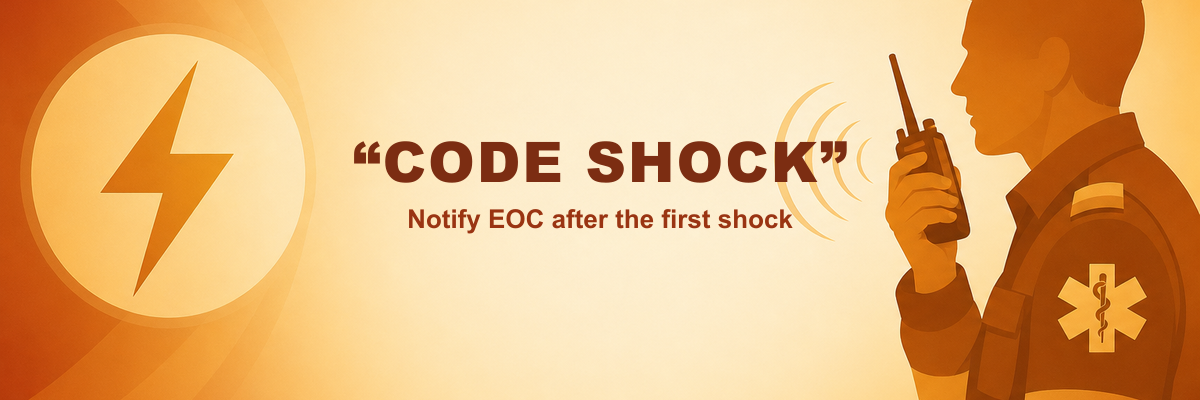
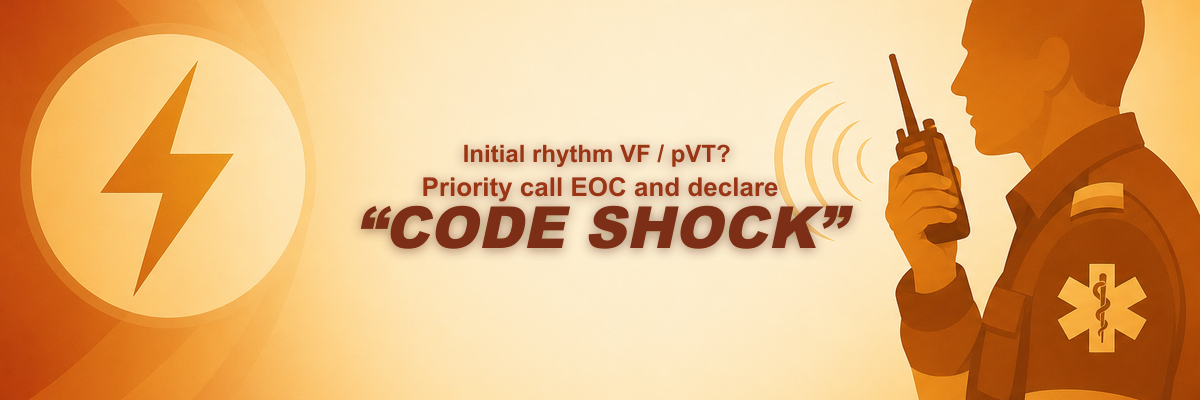
CODE SHOCK: require VF/pVT initial rhythm
Restrict the CODE SHOCK reminder to only appear when the initial rhythm is VF/pVT. Add an initialRhythm parameter to shouldShowCodeShockReminder and update callers in App.tsx and standalone HTML. Bump app version to 1.2.2 and update changelogs, blog/post copy and generated preview pages. Update image composition script to produce a revised CODE SHOCK banner and refresh related image assets.

Changed region(s): [[0.2775, 0.33, 0.7092, 0.66]]

diff --git a/dist-pages-test/blog/posts/2026-05-31-wmas-code-shock-reminder.html b/dist-pages-test/blog/posts/2026-05-31-wmas-code-shock-reminder.html
@@ -158,16 +158,16 @@
       <article>
         <h1>CODE SHOCK reminder for WMAS crews</h1>
         <p class="post-meta"><span class="badge badge-news">Update</span>31 May 2026</p>
-        <div class="prose"><p>The <strong>WMAS build</strong> of Resusci-Time includes a <strong>CODE SHOCK</strong> reminder. It appears once a patient has received their <strong>first shock</strong> during active resuscitation, prompting the crew to <strong>inform EOC</strong> that a CODE SHOCK situation exists.</p>
-<p><img src="../images/code-shock-wmas.png" alt="CODE SHOCK reminder — notify EOC after the first shock"></p>
+        <div class="prose"><p>The <strong>WMAS build</strong> of Resusci-Time includes a <strong>CODE SHOCK</strong> reminder. It appears after the <strong>first logged shock</strong> when the <strong>initial rhythm was VF / pVT</strong>, prompting the crew to <strong>inform EOC</strong> that a CODE SHOCK situation exists.</p>
+<p><img src="../images/code-shock-wmas.png" alt="CODE SHOCK reminder — VF / pVT initial rhythm, priority call EOC"></p>
 <h2>Why it matters</h2>
 <p>Shockable cardiac arrest may benefit from <strong>early coordination with EOC</strong> and the <strong>possible deployment of specialist clinicians</strong> to the scene or to support remote clinical decision-making. Notifying EOC at the right time helps the wider system respond sooner, which can lead to <strong>better patient outcomes</strong>.</p>
 <p>The reminder is a <strong>prompt only</strong> — it does not replace local WMAS policy, crew judgement, or direct communication with EOC. It is there so the notification step is less likely to be missed under pressure.</p>
 <h2>What you will see in the app</h2>
 <ol>
-<li><p>Run a shockable rhythm case as usual and <strong>log each shock</strong> in Resusci-Time.</p>
+<li><p>Commence resuscitation with <strong>VF / pVT</strong> as the initial rhythm and <strong>log the first shock</strong> in Resusci-Time.</p>
 </li>
-<li><p>After the <strong>first shock</strong> is recorded, an <strong>amber alert panel</strong> appears below the timer with the message:</p>
+<li><p>After that shock is recorded, an <strong>amber alert panel</strong> appears below the timer with the message:</p>
 <p><strong>CODE SHOCK notified to EOC</strong></p>
 </li>
 <li><p>Once you have <strong>notified EOC</strong>, tap <strong>Acknowledge</strong>. The app adds a timestamped line to the <strong>event log</strong> (<code>CODE SHOCK notified to EOC</code>) so the record reflects that the step was completed.</p>
@@ -178,7 +178,7 @@
 <p>This reminder is <strong>enabled only in the WMAS custom build</strong> (live and preview URLs for West Midlands crews). The Standard build and other trust builds do not show CODE SHOCK.</p>
 <p>Open the WMAS app from your service link or bookmark — see your local Resusci-Time rollout contact if you need the URL.</p>
 <h2>Training tip</h2>
-<p>Run through a <strong>preview</strong> or training case and log the <strong>first shock</strong> to see the panel and acknowledgement flow before you rely on it on a real job. The preview build also lets you change protocol speed (1×–10×) from the header if you want a quicker walkthrough.</p>
+<p>Run through a <strong>preview</strong> or training case with <strong>VF / pVT</strong> as the initial rhythm and log the <strong>first shock</strong> to see the panel and acknowledgement flow before you rely on it on a real job. It does <strong>not</strong> appear if the first monitored rhythm was PEA or asystole, even if the patient is shocked later. The preview build also lets you change protocol speed (1×–10×) from the header if you want a quicker walkthrough.</p>
 <h2>Feedback</h2>
 <p>If the wording, timing, or placement of this reminder should change to fit WMAS practice better, pass feedback to your clinical lead or the project maintainer.</p>
 </div>

diff --git a/dist-pages-test/blog/index.html b/dist-pages-test/blog/index.html
@@ -167,7 +167,7 @@
         <p>What’s new in the Standard live build — Documents tab, prolonged VF reminder, TOR and VoD improvements, and intervention updates (version 1.1.1).</p>
       </a><a class="post-card" data-audience="wmas" href="./posts/2026-05-31-wmas-code-shock-reminder.html">
         <h3><span class="badge badge-news">Update</span>CODE SHOCK reminder for WMAS crews</h3>
-        <p>After the first shock, Resusci-Time prompts WMAS crews to notify EOC — supporting early specialist support where it may improve outcomes.</p>
+        <p>After the first shock when the initial rhythm was VF / pVT, Resusci-Time prompts WMAS crews to notify EOC.</p>
       </a><a class="post-card" data-audience="wmas" href="./posts/2026-05-31-wmas-release-update.html">
         <h3><span class="badge badge-news">Update</span>WMAS release update — Documents, TOR, and CODE SHOCK</h3>
         <p>What’s new in the WMAS live build — Documents tab, TOR improvements, CODE SHOCK after the first shock, prolonged VF rules, and VOD updates.</p>

diff --git a/standalone/index.html b/standalone/index.html
@@ -919,9 +919,10 @@
     const CODE_SHOCK_ENABLED = TRUST_ID === 'wmas';
     const CODE_SHOCK_MIN_SHOCKS = 1;
 
-    function shouldShowCodeShockReminder(shockCount, acknowledged) {
+    function shouldShowCodeShockReminder(initialRhythm, shockCount, acknowledged) {
       if (!CODE_SHOCK_ENABLED) return false;
       if (acknowledged) return false;
+      if (initialRhythm !== RHYTHM_VF_PVT) return false;
       return shockCount >= CODE_SHOCK_MIN_SHOCKS;
     }
 
@@ -2695,7 +2696,7 @@
       const panel = document.getElementById('code-shock-panel');
       const show = state.step === 'active-resuscitation' &&
         state.timerView === 'arrest' &&
-        shouldShowCodeShockReminder(countShocksDelivered(), state.codeShockAck);
+        shouldShowCodeShockReminder(state.initialRhythm, countShocksDelivered(), state.codeShockAck);
       setReminderPanelVisible(panel, show);
     }
 

diff --git a/src/protocol.ts b/src/protocol.ts
@@ -135,10 +135,15 @@ export function getEarlyTransferLogLabel(): string {
 
 import { serviceConfig } from './config'
 
-export function shouldShowCodeShockReminder(shockCount: number, acknowledged: boolean): boolean {
+export function shouldShowCodeShockReminder(
+  initialRhythm: Rhythm | null,
+  shockCount: number,
+  acknowledged: boolean,
+): boolean {
   const { codeShock } = serviceConfig.features
   if (!codeShock) return false
   if (acknowledged) return false
+  if (initialRhythm !== RHYTHM_VF_PVT) return false
   return shockCount >= codeShock.minShocks
 }
 

diff --git a/src/App.tsx b/src/App.tsx
@@ -1392,7 +1392,7 @@ function App() {
   const showCodeShock =
     step === 'active-resuscitation' &&
     timerView === 'arrest' &&
-    shouldShowCodeShockReminder(totalShocks, codeShockAcknowledged)
+    shouldShowCodeShockReminder(initialRhythm, totalShocks, codeShockAcknowledged)
 
   const showProlongedVf =
     step === 'active-resuscitation' &&

diff --git a/blog/posts/2026-05-31-wmas-code-shock-reminder.md b/blog/posts/2026-05-31-wmas-code-shock-reminder.md
@@ -3,12 +3,12 @@ title: CODE SHOCK reminder for WMAS crews
 date: 2026-05-31
 category: news
 audience: wmas
-summary: After the first shock, Resusci-Time prompts WMAS crews to notify EOC — supporting early specialist support where it may improve outcomes.
+summary: After the first shock when the initial rhythm was VF / pVT, Resusci-Time prompts WMAS crews to notify EOC.
 ---
 
-The **WMAS build** of Resusci-Time includes a **CODE SHOCK** reminder. It appears once a patient has received their **first shock** during active resuscitation, prompting the crew to **inform EOC** that a CODE SHOCK situation exists.
+The **WMAS build** of Resusci-Time includes a **CODE SHOCK** reminder. It appears after the **first logged shock** when the **initial rhythm was VF / pVT**, prompting the crew to **inform EOC** that a CODE SHOCK situation exists.
 
-![CODE SHOCK reminder — notify EOC after the first shock](../images/code-shock-wmas.png)
+![CODE SHOCK reminder — VF / pVT initial rhythm, priority call EOC](../images/code-shock-wmas.png)
 
 ## Why it matters
 
@@ -18,8 +18,8 @@ The reminder is a **prompt only** — it does not replace local WMAS policy, cre
 
 ## What you will see in the app
 
-1. Run a shockable rhythm case as usual and **log each shock** in Resusci-Time.
-2. After the **first shock** is recorded, an **amber alert panel** appears below the timer with the message:
+1. Commence resuscitation with **VF / pVT** as the initial rhythm and **log the first shock** in Resusci-Time.
+2. After that shock is recorded, an **amber alert panel** appears below the timer with the message:
 
    **CODE SHOCK notified to EOC**
 
@@ -35,7 +35,7 @@ Open the WMAS app from your service link or bookmark — see your local Resusci-
 
 ## Training tip
 
-Run through a **preview** or training case and log the **first shock** to see the panel and acknowledgement flow before you rely on it on a real job. The preview build also lets you change protocol speed (1×–10×) from the header if you want a quicker walkthrough.
+Run through a **preview** or training case with **VF / pVT** as the initial rhythm and log the **first shock** to see the panel and acknowledgement flow before you rely on it on a real job. It does **not** appear if the first monitored rhythm was PEA or asystole, even if the patient is shocked later. The preview build also lets you change protocol speed (1×–10×) from the header if you want a quicker walkthrough.
 
 ## Feedback
 

diff --git a/TESTING-CHANGELOG.md b/TESTING-CHANGELOG.md
@@ -2,7 +2,19 @@
 
 Features below are on **preview URLs only** (DEMO icons, speed controls, startup warning). They are **not** on live field builds until merged to production. Published announcements appear on the [blog](/blog/) after release.
 
-**App version:** 1.2.1 (preview) · **Last updated:** 2 June 2026
+**App version:** 1.2.2 (preview) · **Last updated:** 4 June 2026
+
+---
+
+## Version 1.2.2 · 4 June 2026
+
+### WMAS — CODE SHOCK (WMAS guidance)
+
+- Reminder rules updated to match **WMAS** guidance: after the **first shock**, only when **initial rhythm was VF / pVT** (the reminder will now **not** appear when a shock is delivered where the initial rhythm **was not** VF / pVT).
+
+### Bug fixes
+
+- **WMAS:** CODE SHOCK blog banner — subtitle lines centred with the “CODE SHOCK” headline.
 
 ---
 
@@ -93,9 +105,9 @@ Features below are on **preview URLs only** (DEMO icons, speed controls, startup
 
 ### WMAS preview only
 
-#### CODE SHOCK — after first shock
+#### CODE SHOCK — after first shock (VF / pVT initial rhythm)
 
-- Reminder appears after the **first logged shock** (was third on older live builds).
+- Reminder appears after the **first logged shock** when **initial rhythm was VF / pVT** (was third shock on older live builds; see **1.2.2** for the initial-rhythm rule).
 - Message: **CODE SHOCK notified to EOC** — acknowledge to log.
 
 #### Prolonged VF at TOR

diff --git a/public/preview-changelog.md b/public/preview-changelog.md
@@ -2,7 +2,19 @@
 
 Features below are on **preview URLs only** (DEMO icons, speed controls, startup warning). They are **not** on live field builds until merged to production. Published announcements appear on the [blog](/blog/) after release.
 
-**App version:** 1.2.1 (preview) · **Last updated:** 2 June 2026
+**App version:** 1.2.2 (preview) · **Last updated:** 4 June 2026
+
+---
+
+## Version 1.2.2 · 4 June 2026
+
+### WMAS — CODE SHOCK (WMAS guidance)
+
+- Reminder rules updated to match **WMAS** guidance: after the **first shock**, only when **initial rhythm was VF / pVT** (the reminder will now **not** appear when a shock is delivered where the initial rhythm **was not** VF / pVT).
+
+### Bug fixes
+
+- **WMAS:** CODE SHOCK blog banner — subtitle lines centred with the “CODE SHOCK” headline.
 
 ---
 
@@ -93,9 +105,9 @@ Features below are on **preview URLs only** (DEMO icons, speed controls, startup
 
 ### WMAS preview only
 
-#### CODE SHOCK — after first shock
+#### CODE SHOCK — after first shock (VF / pVT initial rhythm)
 
-- Reminder appears after the **first logged shock** (was third on older live builds).
+- Reminder appears after the **first logged shock** when **initial rhythm was VF / pVT** (was third shock on older live builds; see **1.2.2** for the initial-rhythm rule).
 - Message: **CODE SHOCK notified to EOC** — acknowledge to log.
 
 #### Prolonged VF at TOR
